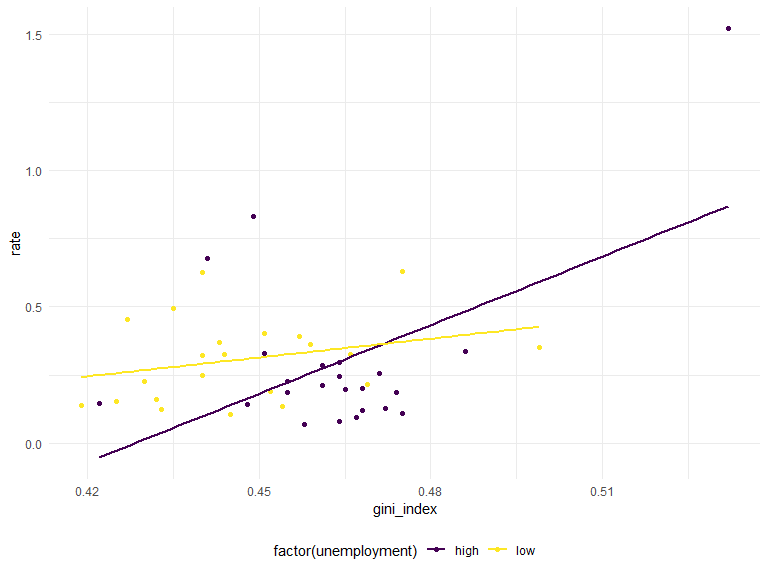
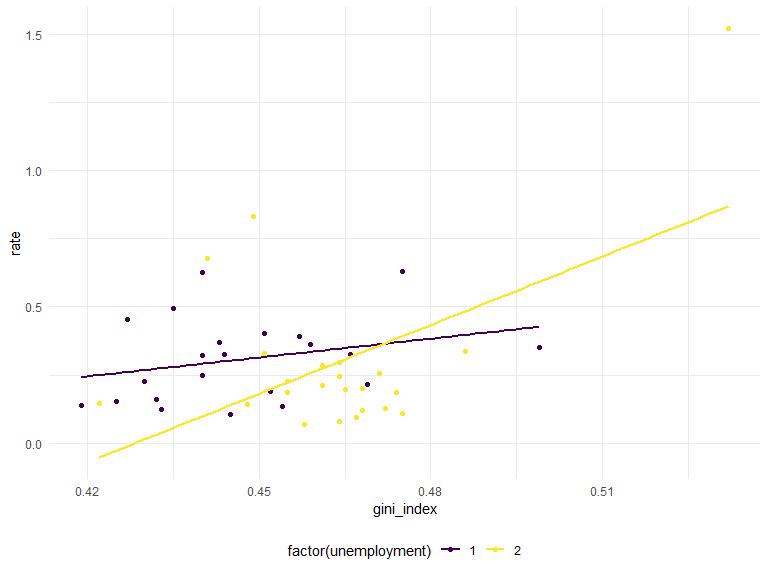
push again

diff --git a/P8130_Final_Project.md b/P8130_Final_Project.md
@@ -197,18 +197,18 @@ use 1 and 2 to denote the level low and high
 ``` r
 hc_df = 
   hc_df %>% 
-  #mutate(
-  #  unemployment = case_when(
-  #    unemployment == "low" ~ 1,
-  #    unemployment == "high" ~ 2)
-  #) %>% 
-  #mutate(
-  #  urbanization = case_when(
-  #    urbanization == "low" ~ 1,
-  #    urbanization == "high" ~ 2)
-  #) %>% 
-  mutate(urbanization = as.factor(urbanization),
-         unemployment = as.factor(unemployment)) %>% 
+  mutate(
+    unemployment = case_when(
+      unemployment == "low" ~ 1,
+      unemployment == "high" ~ 2)
+  ) %>% 
+  mutate(
+    urbanization = case_when(
+      urbanization == "low" ~ 1,
+      urbanization == "high" ~ 2)
+  ) %>% 
+  #mutate(urbanization = as.factor(urbanization),
+  #       unemployment = as.factor(unemployment)) %>% 
   select(-state)
 ```
 
@@ -579,9 +579,9 @@ summary(unemployment)
     ## -0.22934 -0.15510 -0.07308  0.04398  1.22390 
     ## 
     ## Coefficients:
-    ##                 Estimate Std. Error t value Pr(>|t|)    
-    ## (Intercept)     0.298398   0.053054   5.624 1.28e-06 ***
-    ## unemploymentlow 0.008248   0.075877   0.109    0.914    
+    ##               Estimate Std. Error t value Pr(>|t|)  
+    ## (Intercept)   0.314893   0.120769   2.607   0.0125 *
+    ## unemployment -0.008248   0.075877  -0.109   0.9139  
     ## ---
     ## Signif. codes:  0 '***' 0.001 '**' 0.01 '*' 0.05 '.' 0.1 ' ' 1
     ## 
@@ -605,9 +605,9 @@ summary(unemployment_)
     ## -1.14546 -0.52433 -0.03384  0.31838  1.94753 
     ## 
     ## Coefficients:
-    ##                 Estimate Std. Error t value Pr(>|t|)    
-    ## (Intercept)      -1.5273     0.1350 -11.313 1.79e-14 ***
-    ## unemploymentlow   0.2159     0.1931   1.118     0.27    
+    ##              Estimate Std. Error t value Pr(>|t|)    
+    ## (Intercept)   -1.0956     0.3073  -3.565 0.000907 ***
+    ## unemployment  -0.2159     0.1931  -1.118 0.269778    
     ## ---
     ## Signif. codes:  0 '***' 0.001 '**' 0.01 '*' 0.05 '.' 0.1 ' ' 1
     ## 
@@ -633,11 +633,9 @@ summary(urbanization)
     ## -0.27357 -0.13829 -0.05521  0.04889  1.17043 
     ## 
     ## Coefficients:
-    ##                 Estimate Std. Error t value Pr(>|t|)    
-    ## (Intercept)      0.35187    0.05076   6.932 1.61e-08 ***
-    ## urbanizationlow -0.10594    0.07430  -1.426    0.161    
-    ## ---
-    ## Signif. codes:  0 '***' 0.001 '**' 0.01 '*' 0.05 '.' 0.1 ' ' 1
+    ##              Estimate Std. Error t value Pr(>|t|)
+    ## (Intercept)    0.1400     0.1198   1.168    0.249
+    ## urbanization   0.1059     0.0743   1.426    0.161
     ## 
     ## Residual standard error: 0.2487 on 43 degrees of freedom
     ## Multiple R-squared:  0.04515,    Adjusted R-squared:  0.02294 
@@ -659,9 +657,9 @@ summary(urbanization_)
     ## -1.23570 -0.39187 -0.01327  0.37117  1.73166 
     ## 
     ## Coefficients:
-    ##                 Estimate Std. Error t value Pr(>|t|)    
-    ## (Intercept)      -1.3114     0.1318  -9.951    1e-12 ***
-    ## urbanizationlow  -0.2364     0.1929  -1.226    0.227    
+    ##              Estimate Std. Error t value Pr(>|t|)    
+    ## (Intercept)   -1.7843     0.3111  -5.736 8.84e-07 ***
+    ## urbanization   0.2364     0.1929   1.226    0.227    
     ## ---
     ## Signif. codes:  0 '***' 0.001 '**' 0.01 '*' 0.05 '.' 0.1 ' ' 1
     ## 
@@ -1042,10 +1040,10 @@ tidy(fit1)
 ```
 
     ## # A tibble: 2 x 5
-    ##   term            estimate std.error statistic    p.value
-    ##   <chr>              <dbl>     <dbl>     <dbl>      <dbl>
-    ## 1 (Intercept)      0.298      0.0531     5.62  0.00000128
-    ## 2 unemploymentlow  0.00825    0.0759     0.109 0.914
+    ##   term         estimate std.error statistic p.value
+    ##   <chr>           <dbl>     <dbl>     <dbl>   <dbl>
+    ## 1 (Intercept)   0.315      0.121      2.61   0.0125
+    ## 2 unemployment -0.00825    0.0759    -0.109  0.914
 
 ``` r
 fit2 <- lm(rate ~ urbanization, data = hc_df)
@@ -1053,10 +1051,10 @@ tidy(fit2)
 ```
 
     ## # A tibble: 2 x 5
-    ##   term            estimate std.error statistic      p.value
-    ##   <chr>              <dbl>     <dbl>     <dbl>        <dbl>
-    ## 1 (Intercept)        0.352    0.0508      6.93 0.0000000161
-    ## 2 urbanizationlow   -0.106    0.0743     -1.43 0.161
+    ##   term         estimate std.error statistic p.value
+    ##   <chr>           <dbl>     <dbl>     <dbl>   <dbl>
+    ## 1 (Intercept)     0.140    0.120       1.17   0.249
+    ## 2 urbanization    0.106    0.0743      1.43   0.161
 
 ``` r
 fit3 <- lm(rate ~ med_income, data = hc_df)
@@ -1122,11 +1120,11 @@ tidy(fit1)
 ```
 
     ## # A tibble: 3 x 5
-    ##   term            estimate std.error statistic p.value
-    ##   <chr>              <dbl>     <dbl>     <dbl>   <dbl>
-    ## 1 (Intercept)       -2.30     0.856      -2.68 0.0103 
-    ## 2 gini_index         5.60     1.84        3.04 0.00408
-    ## 3 unemploymentlow    0.103    0.0762      1.35 0.184
+    ##   term         estimate std.error statistic p.value
+    ##   <chr>           <dbl>     <dbl>     <dbl>   <dbl>
+    ## 1 (Intercept)    -2.09     0.800      -2.62 0.0123 
+    ## 2 gini_index      5.60     1.84        3.04 0.00408
+    ## 3 unemployment   -0.103    0.0762     -1.35 0.184
 
 ``` r
 fit2 <- update(forward1, . ~ . +urbanization)
@@ -1134,11 +1132,11 @@ tidy(fit2)
 ```
 
     ## # A tibble: 3 x 5
-    ##   term            estimate std.error statistic p.value
-    ##   <chr>              <dbl>     <dbl>     <dbl>   <dbl>
-    ## 1 (Intercept)      -1.63      0.882     -1.85   0.0719
-    ## 2 gini_index        4.27      1.90       2.25   0.0299
-    ## 3 urbanizationlow  -0.0299    0.0787    -0.380  0.706
+    ##   term         estimate std.error statistic p.value
+    ##   <chr>           <dbl>     <dbl>     <dbl>   <dbl>
+    ## 1 (Intercept)   -1.69      0.821     -2.06   0.0460
+    ## 2 gini_index     4.27      1.90       2.25   0.0299
+    ## 3 urbanization   0.0299    0.0787     0.380  0.706
 
 ``` r
 fit3 <- update(forward1, . ~ . +med_income)
@@ -1197,12 +1195,12 @@ tidy(fit1)
 ```
 
     ## # A tibble: 4 x 5
-    ##   term            estimate std.error statistic    p.value
-    ##   <chr>              <dbl>     <dbl>     <dbl>      <dbl>
-    ## 1 (Intercept)      -8.09      1.47      -5.52  0.00000211
-    ## 2 gini_index        8.90      1.69       5.26  0.00000483
-    ## 3 high_degree       4.99      1.11       4.51  0.0000536 
-    ## 4 unemploymentlow   0.0126    0.0661     0.191 0.849
+    ##   term         estimate std.error statistic    p.value
+    ##   <chr>           <dbl>     <dbl>     <dbl>      <dbl>
+    ## 1 (Intercept)   -8.06      1.48      -5.45  0.00000264
+    ## 2 gini_index     8.90      1.69       5.26  0.00000483
+    ## 3 high_degree    4.99      1.11       4.51  0.0000536 
+    ## 4 unemployment  -0.0126    0.0661    -0.191 0.849
 
 ``` r
 fit2 <- update(forward2, . ~ . +urbanization)
@@ -1210,12 +1208,12 @@ tidy(fit2)
 ```
 
     ## # A tibble: 4 x 5
-    ##   term            estimate std.error statistic    p.value
-    ##   <chr>              <dbl>     <dbl>     <dbl>      <dbl>
-    ## 1 (Intercept)     -8.09       1.53     -5.28   0.00000459
-    ## 2 gini_index       8.81       1.81      4.86   0.0000175 
-    ## 3 high_degree      5.06       1.06      4.77   0.0000237 
-    ## 4 urbanizationlow -0.00111    0.0642   -0.0174 0.986
+    ##   term         estimate std.error statistic    p.value
+    ##   <chr>           <dbl>     <dbl>     <dbl>      <dbl>
+    ## 1 (Intercept)  -8.10       1.50     -5.40   0.00000312
+    ## 2 gini_index    8.81       1.81      4.86   0.0000175 
+    ## 3 high_degree   5.06       1.06      4.77   0.0000237 
+    ## 4 urbanization  0.00111    0.0642    0.0174 0.986
 
 ``` r
 fit3 <- update(forward2, . ~ . +med_income)
@@ -1266,11 +1264,11 @@ tidy(fit1)
 ```
 
     ## # A tibble: 3 x 5
-    ##   term              estimate  std.error statistic p.value
-    ##   <chr>                <dbl>      <dbl>     <dbl>   <dbl>
-    ## 1 (Intercept)     -0.242     0.228         -1.06   0.295 
-    ## 2 med_income       0.0000102 0.00000418     2.43   0.0194
-    ## 3 unemploymentlow -0.0376    0.0743        -0.506  0.616
+    ##   term           estimate  std.error statistic p.value
+    ##   <chr>             <dbl>      <dbl>     <dbl>   <dbl>
+    ## 1 (Intercept)  -0.317     0.284         -1.12   0.271 
+    ## 2 med_income    0.0000102 0.00000418     2.43   0.0194
+    ## 3 unemployment  0.0376    0.0743         0.506  0.616
 
 ``` r
 fit2 <- update(income_reg, . ~ . +urbanization)
@@ -1278,11 +1276,11 @@ tidy(fit2)
 ```
 
     ## # A tibble: 3 x 5
-    ##   term               estimate  std.error statistic p.value
-    ##   <chr>                 <dbl>      <dbl>     <dbl>   <dbl>
-    ## 1 (Intercept)     -0.146      0.244         -0.598  0.553 
-    ## 2 med_income       0.00000867 0.00000417     2.08   0.0437
-    ## 3 urbanizationlow -0.0656     0.0742        -0.885  0.381
+    ##   term            estimate  std.error statistic p.value
+    ##   <chr>              <dbl>      <dbl>     <dbl>   <dbl>
+    ## 1 (Intercept)  -0.278      0.232         -1.20   0.237 
+    ## 2 med_income    0.00000867 0.00000417     2.08   0.0437
+    ## 3 urbanization  0.0656     0.0742         0.885  0.381
 
 ``` r
 fit3 <- update(income_reg, . ~ . +gini_index)
@@ -1341,12 +1339,12 @@ tidy(fit1)
 ```
 
     ## # A tibble: 4 x 5
-    ##   term              estimate  std.error statistic  p.value
-    ##   <chr>                <dbl>      <dbl>     <dbl>    <dbl>
-    ## 1 (Intercept)     -2.92      0.824         -3.55  0.000994
-    ## 2 med_income       0.0000105 0.00000375     2.81  0.00760 
-    ## 3 gini_index       5.74      1.71           3.36  0.00170 
-    ## 4 unemploymentlow  0.0578    0.0724         0.798 0.430
+    ##   term           estimate  std.error statistic  p.value
+    ##   <chr>             <dbl>      <dbl>     <dbl>    <dbl>
+    ## 1 (Intercept)  -2.81      0.784         -3.58  0.000901
+    ## 2 med_income    0.0000105 0.00000375     2.81  0.00760 
+    ## 3 gini_index    5.74      1.71           3.36  0.00170 
+    ## 4 unemployment -0.0578    0.0724        -0.798 0.430
 
 ``` r
 fit2 <- update(forward1, . ~ . +urbanization)
@@ -1354,12 +1352,12 @@ tidy(fit2)
 ```
 
     ## # A tibble: 4 x 5
-    ##   term              estimate  std.error statistic p.value
-    ##   <chr>                <dbl>      <dbl>     <dbl>   <dbl>
-    ## 1 (Intercept)     -3.05      0.924         -3.30  0.00201
-    ## 2 med_income       0.0000122 0.00000392     3.11  0.00340
-    ## 3 gini_index       5.82      1.80           3.24  0.00240
-    ## 4 urbanizationlow  0.0544    0.0766         0.711 0.481
+    ##   term           estimate  std.error statistic p.value
+    ##   <chr>             <dbl>      <dbl>     <dbl>   <dbl>
+    ## 1 (Intercept)  -2.94      0.849         -3.46  0.00126
+    ## 2 med_income    0.0000122 0.00000392     3.11  0.00340
+    ## 3 gini_index    5.82      1.80           3.24  0.00240
+    ## 4 urbanization -0.0544    0.0766        -0.711 0.481
 
 ``` r
 fit3 <- update(forward1, . ~ . +high_degree)
@@ -1574,15 +1572,15 @@ summary(inter_model_aic1)
     ## -0.34687 -0.11903 -0.00746  0.10249  0.49588 
     ## 
     ## Coefficients:
-    ##                                        Estimate Std. Error t value Pr(>|t|)
-    ## (Intercept)                             -24.458     42.426  -0.576    0.568
-    ## high_degree                              23.640     48.403   0.488    0.628
-    ## gini_index                               42.127     91.338   0.461    0.647
-    ## urbanizationlow                           7.898     63.278   0.125    0.901
-    ## high_degree:gini_index                  -37.804    104.274  -0.363    0.719
-    ## high_degree:urbanizationlow              -6.689     71.791  -0.093    0.926
-    ## gini_index:urbanizationlow              -10.026    137.937  -0.073    0.942
-    ## high_degree:gini_index:urbanizationlow    6.159    156.822   0.039    0.969
+    ##                                     Estimate Std. Error t value Pr(>|t|)
+    ## (Intercept)                           -8.662    103.037  -0.084    0.933
+    ## high_degree                           10.261    116.565   0.088    0.930
+    ## gini_index                            22.075    226.006   0.098    0.923
+    ## urbanization                          -7.898     63.278  -0.125    0.901
+    ## high_degree:gini_index               -25.487    256.424  -0.099    0.921
+    ## high_degree:urbanization               6.689     71.791   0.093    0.926
+    ## gini_index:urbanization               10.026    137.937   0.073    0.942
+    ## high_degree:gini_index:urbanization   -6.159    156.822  -0.039    0.969
     ## 
     ## Residual standard error: 0.1989 on 37 degrees of freedom
     ## Multiple R-squared:  0.4745, Adjusted R-squared:  0.3751 
@@ -1606,15 +1604,15 @@ summary(inter_model_aic2)
     ## -0.37590 -0.12913 -0.01831  0.07931  0.46731 
     ## 
     ## Coefficients:
-    ##                                        Estimate Std. Error t value Pr(>|t|)
-    ## (Intercept)                             -9.0664    40.4019  -0.224    0.824
-    ## high_degree                              5.4920    46.0244   0.119    0.906
-    ## gini_index                               9.8217    88.0421   0.112    0.912
-    ## unemploymentlow                          7.9499    55.3273   0.144    0.887
-    ## high_degree:gini_index                   0.3214   100.3723   0.003    0.997
-    ## high_degree:unemploymentlow             -6.9098    62.8695  -0.110    0.913
-    ## gini_index:unemploymentlow             -13.1000   120.5844  -0.109    0.914
-    ## high_degree:gini_index:unemploymentlow  10.1895   137.2053   0.074    0.941
+    ##                                     Estimate Std. Error t value Pr(>|t|)
+    ## (Intercept)                            6.834     85.717   0.080    0.937
+    ## high_degree                           -8.328     97.240  -0.086    0.932
+    ## gini_index                           -16.378    186.837  -0.088    0.931
+    ## unemployment                          -7.950     55.327  -0.144    0.887
+    ## high_degree:gini_index                20.700    212.314   0.097    0.923
+    ## high_degree:unemployment               6.910     62.869   0.110    0.913
+    ## gini_index:unemployment               13.100    120.584   0.109    0.914
+    ## high_degree:gini_index:unemployment  -10.190    137.205  -0.074    0.941
     ## 
     ## Residual standard error: 0.1994 on 37 degrees of freedom
     ## Multiple R-squared:  0.4719, Adjusted R-squared:  0.372 
@@ -1637,17 +1635,15 @@ summary(inter_model_income1)
     ## -0.42834 -0.11255 -0.01696  0.07826  0.50533 
     ## 
     ## Coefficients:
-    ##                                         Estimate Std. Error t value Pr(>|t|)   
-    ## (Intercept)                            2.140e+01  8.283e+00   2.583  0.01389 * 
-    ## med_income                            -3.771e-04  1.298e-04  -2.905  0.00616 **
-    ## gini_index                            -4.684e+01  1.774e+01  -2.640  0.01206 * 
-    ## urbanizationlow                       -1.383e+01  1.217e+01  -1.137  0.26287   
-    ## med_income:gini_index                  8.384e-04  2.777e-04   3.019  0.00457 **
-    ## med_income:urbanizationlow             2.357e-04  2.161e-04   1.091  0.28248   
-    ## gini_index:urbanizationlow             2.998e+01  2.682e+01   1.118  0.27082   
-    ## med_income:gini_index:urbanizationlow -5.113e-04  4.825e-04  -1.060  0.29617   
-    ## ---
-    ## Signif. codes:  0 '***' 0.001 '**' 0.01 '*' 0.05 '.' 0.1 ' ' 1
+    ##                                      Estimate Std. Error t value Pr(>|t|)
+    ## (Intercept)                        -6.273e+00  1.966e+01  -0.319    0.751
+    ## med_income                          9.422e-05  3.690e-04   0.255    0.800
+    ## gini_index                          1.312e+01  4.396e+01   0.298    0.767
+    ## urbanization                        1.383e+01  1.217e+01   1.137    0.263
+    ## med_income:gini_index              -1.842e-04  8.366e-04  -0.220    0.827
+    ## med_income:urbanization            -2.357e-04  2.161e-04  -1.091    0.282
+    ## gini_index:urbanization            -2.998e+01  2.682e+01  -1.118    0.271
+    ## med_income:gini_index:urbanization  5.113e-04  4.825e-04   1.060    0.296
     ## 
     ## Residual standard error: 0.1972 on 37 degrees of freedom
     ## Multiple R-squared:  0.4832, Adjusted R-squared:  0.3854 
@@ -1670,17 +1666,15 @@ summary(inter_model_income2)
     ## -0.37760 -0.10759 -0.01941  0.07814  0.53562 
     ## 
     ## Coefficients:
-    ##                                         Estimate Std. Error t value Pr(>|t|)   
-    ## (Intercept)                            2.326e+01  9.058e+00   2.568  0.01440 * 
-    ## med_income                            -4.071e-04  1.393e-04  -2.921  0.00591 **
-    ## gini_index                            -5.066e+01  1.945e+01  -2.604  0.01317 * 
-    ## unemploymentlow                       -1.319e+01  1.296e+01  -1.017  0.31564   
-    ## med_income:gini_index                  8.984e-04  2.985e-04   3.010  0.00469 **
-    ## med_income:unemploymentlow             2.138e-04  2.122e-04   1.008  0.32013   
-    ## gini_index:unemploymentlow             2.796e+01  2.844e+01   0.983  0.33188   
-    ## med_income:gini_index:unemploymentlow -4.507e-04  4.667e-04  -0.966  0.34047   
-    ## ---
-    ## Signif. codes:  0 '***' 0.001 '**' 0.01 '*' 0.05 '.' 0.1 ' ' 1
+    ##                                      Estimate Std. Error t value Pr(>|t|)
+    ## (Intercept)                        -3.109e+00  2.064e+01  -0.151    0.881
+    ## med_income                          2.056e-05  3.490e-04   0.059    0.953
+    ## gini_index                          5.260e+00  4.582e+01   0.115    0.909
+    ## unemployment                        1.319e+01  1.296e+01   1.017    0.316
+    ## med_income:gini_index              -3.087e-06  7.773e-04  -0.004    0.997
+    ## med_income:unemployment            -2.138e-04  2.122e-04  -1.008    0.320
+    ## gini_index:unemployment            -2.796e+01  2.844e+01  -0.983    0.332
+    ## med_income:gini_index:unemployment  4.507e-04  4.667e-04   0.966    0.340
     ## 
     ## Residual standard error: 0.1953 on 37 degrees of freedom
     ## Multiple R-squared:  0.4933, Adjusted R-squared:  0.3975 
